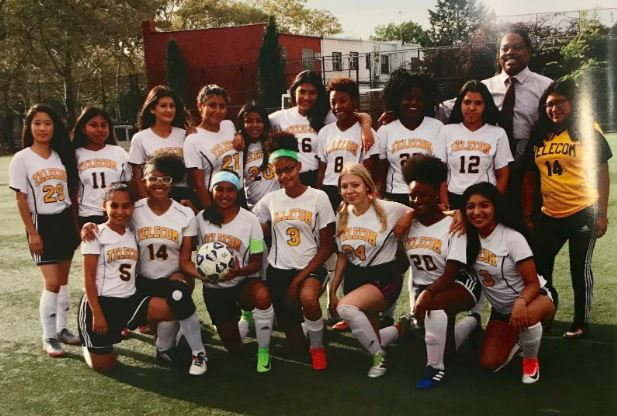
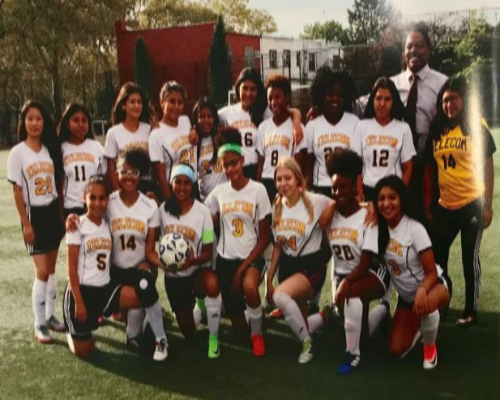
change soccer to side by side

diff --git a/soccer.html b/soccer.html
@@ -179,38 +179,32 @@
 
     <h1>SOCCER</h1>
 
-    <H2>BOYS</H2>
-
-    <p><a href="http://www.psal.org/profiles/team-profile.aspx#012/20500">BOYS VARSITY PSAL PROFILE </a></p>
-
-    <!-- <img src="soccerb2.jpg" style="display: block; margin-left: auto; margin-right: auto;">-->
-    <img src="soccerb1.jpg" style="display: block; margin-left: auto; margin-right: auto;">
-
-    <div class="container" style="margin-top:30px">
-        <div class="row">
-            <p> <strong>CURRENT PLAYERS OF THE TEAM ARE:</strong> DEVON FORRESTER, ALFREDO GUTIERREZ, JOHAN NOLASCO, JESUS CHIQUITERO, GERALD COGTLA CASTILLO, ALEX COSME, SILVESTRE GUTIERREZ, BRAYDEN MORRISON, HUNG QUANG NGUYEN, EDWIN PAPALOTZI, OSCAR ULIS
+    <div class=" col-md-6">
+        <H2>BOYS</H2>
+        <p><a href="http://www.psal.org/profiles/team-profile.aspx#012/20500">BOYS VARSITY PSAL PROFILE </a></p>
+        <img src="soccerb1.jpg">
+        <br>
+        <p> <strong>CURRENT PLAYERS OF THE TEAM ARE:</strong> DEVON FORRESTER, ALFREDO GUTIERREZ, JOHAN NOLASCO, JESUS CHIQUITERO, GERALD COGTLA CASTILLO, ALEX COSME, SILVESTRE GUTIERREZ, BRAYDEN MORRISON, HUNG QUANG NGUYEN, EDWIN PAPALOTZI, OSCAR ULIS
                 RAMIREZ, STEVEN ROSA, CHARLES EYDMAN, JOSE LOPEZ, ANTONIO SILVA, DIEGO VAZQUEZ, TAREK YOUSSEF, CARLOS AUQUILLA, ISRAEL MINCHALA, AND JOHNNY PALAPA MUNOZ.
-            </p>
-        </div>
-    </div><br>
-
-    <p>Coach - Joseph Gulino <br> Phone : 718-996-6706 <br> Email : <a href="mailto:jgulino@schools.nyc.gov">jgulino@schools.nyc.gov</a></p> <br>
-
-    <h2>GIRLS</h2>
-
-    <p><a href="http://www.psal.org/profiles/team-profile.aspx#021/20500">GIRLS VARSITY PSAL PROFILE </a></p>
-
-    <img src="soccerg.jpg" style="display: block; margin-left: auto; margin-right: auto;">
-
-    <div class="container" style="margin-top:30px">
-        <div class="row">
-            <p> <strong>CURRENT PLAYERS OF THE TEAM ARE:</strong> DHELIS CEPEDA, CASSANDRA FRANCO, KATHERINE GARCIA, RAQUEL JOSEPH, MELANIE MARTINEZ, TAMEKA SMITH, LAYLA ABDELAZIZ, JESSICA PAEZ FUENTES, MELISSA ROMANO, SERIN SARSOUR, MARILYN TLATENCHI, YING
-                YU ZHOU, STEPHANIE FRANCO, YASMIN HERRERA, PERLA LOPEZ, HALEY SACO, LIZETTE AUGIRRE, LESLIE CALLE, GUADALUPE CORDOVA, SARINA GREENE, ANDANA QUINTUNA GUAMAN.
-            </p> <br>
-        </div>
+        </p><br><br><br>
+        <p>Coach - Joseph Gulino <br> Phone : 718-996-6706 <br> Email : <a href="mailto:jgulino@schools.nyc.gov">jgulino@schools.nyc.gov</a></p> <br>
     </div>
 
-    <p>Coach - Charles Young <br> Phone : 718-759-3431 <br> Email : <a href="mailto:CYoung@schools.nyc.gov">CYoung@schools.nyc.gov</a></p>
+
+    <!-- <img src="soccerb2.jpg" style="display: block; margin-left: auto; margin-right: auto;">-->
+
+
+    <div class=" col-md-6">
+        <h2>GIRLS</h2>
+        <p><a href="http://www.psal.org/profiles/team-profile.aspx#021/20500">GIRLS VARSITY PSAL PROFILE </a></p>
+        <img src="soccerg.jpg">
+        <br>
+        <p> <strong>CURRENT PLAYERS OF THE TEAM ARE:</strong> DHELIS CEPEDA, CASSANDRA FRANCO, KATHERINE GARCIA, RAQUEL JOSEPH, MELANIE MARTINEZ, TAMEKA SMITH, LAYLA ABDELAZIZ, JESSICA PAEZ FUENTES, MELISSA ROMANO, SERIN SARSOUR, MARILYN TLATENCHI, YING
+                YU ZHOU, STEPHANIE FRANCO, YASMIN HERRERA, PERLA LOPEZ, HALEY SACO, LIZETTE AUGIRRE, LESLIE CALLE, GUADALUPE CORDOVA, SARINA GREENE, ANDANA QUINTUNA GUAMAN.
+        </p><br><br><br>
+        <p>Coach - Charles Young <br> Phone : 718-759-3431 <br> Email : <a href="mailto:CYoung@schools.nyc.gov">CYoung@schools.nyc.gov</a></p>
+    </div>
+
 
 </body>
 
